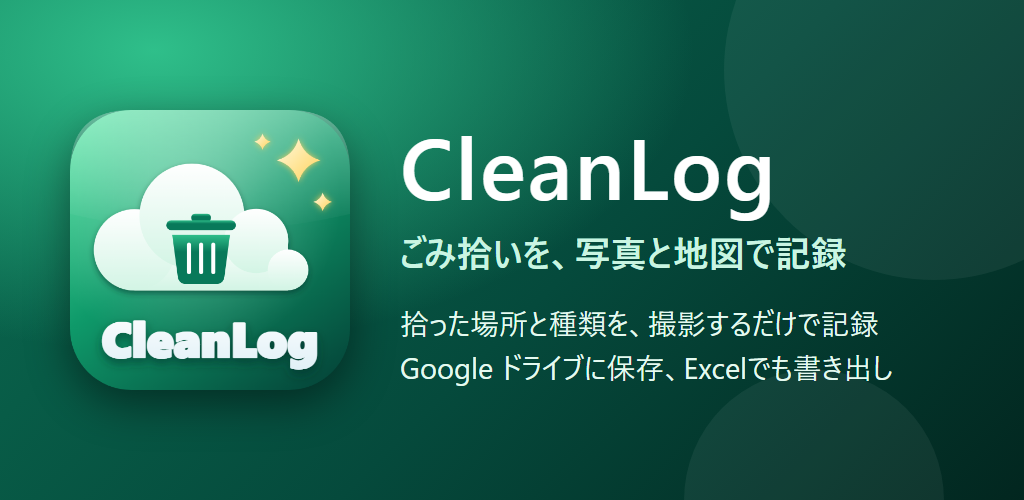
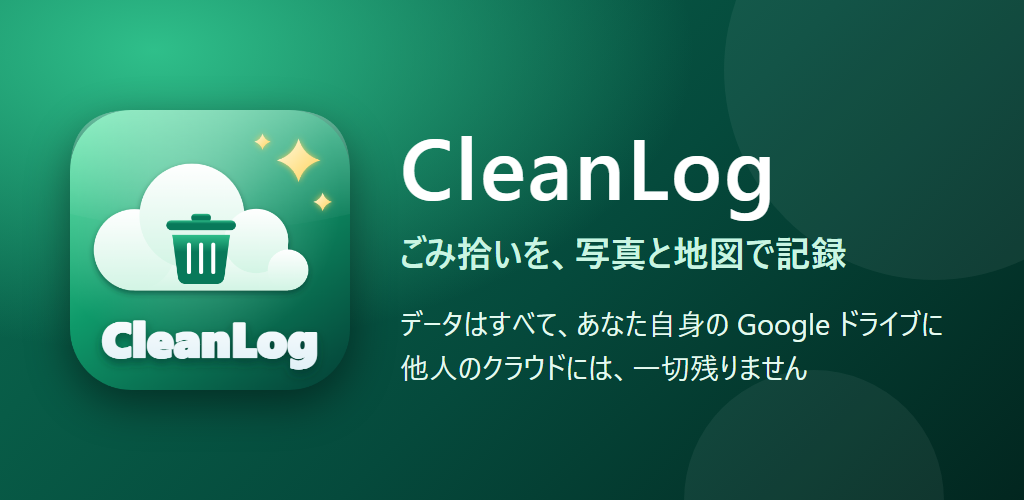
説明に「データはすべて自分の Google ドライブだけに保存される」特長を追加

Changed region(s): [[0.375, 0.6, 0.9062, 0.78]]

diff --git a/android/store/feature.html b/android/store/feature.html
@@ -13,5 +13,5 @@ p{margin:26px 0 0;font-size:29px;line-height:1.5;color:#e4faf0}
  <div class="dot" style="width:420px;height:420px;right:-120px;top:-140px"></div>
  <div class="dot" style="width:260px;height:260px;right:80px;bottom:-130px"></div>
  <img src="icon-512.png">
- <div class="t"><h1>CleanLog</h1><h2>ごみ拾いを、写真と地図で記録</h2><p>拾った場所と種類を、撮影するだけで記録<br>Google ドライブに保存、Excelでも書き出し</p></div>
+ <div class="t"><h1>CleanLog</h1><h2>ごみ拾いを、写真と地図で記録</h2><p>データはすべて、あなた自身の Google ドライブに<br>他人のクラウドには、一切残りません</p></div>
 </div>

diff --git a/index.html b/index.html
@@ -6,7 +6,7 @@
     <title>CleanLog</title>
     <meta
       name="description"
-      content="ごみ拾い記録をマップと写真で残す、スマホ向けのモバイルファーストアプリ"
+      content="ごみ拾いを、マップと写真で記録。データはすべて自分の Google ドライブに保存され、他人のクラウドには残りません"
     />
     <link rel="preconnect" href="https://fonts.googleapis.com" />
     <link rel="preconnect" href="https://fonts.gstatic.com" crossorigin />

diff --git a/android/store/listing-ja.md b/android/store/listing-ja.md
@@ -11,10 +11,17 @@ Play Console にそのまま貼り付けて使います。
 - ウェブサイト: https://cleanlog.doitmyself.net/
 
 ## 簡単な説明（80文字まで）
-ごみ拾いの記録を、写真と地図で残すアプリ。種類ごとに集計し、Google ドライブに保存できます。
+ごみ拾いを写真と地図で記録。写真もデータも、すべて自分の Google ドライブに保存。他人のクラウドには残りません。
 
 ## 詳しい説明（4000文字まで）
 CleanLog は、ごみ拾いの活動を、写真と地図でかんたんに記録するアプリです。
+
+■ 大きな特長: データは、すべてあなたの Google ドライブに
+・写真も記録も、ご自身の Google アカウントのドライブ（「CleanLog」フォルダー）に保存されます。
+・開発者や他社のサーバー・クラウドには、データを送信も保存もしません。ほかの人のクラウドに、あなたのデータが残ることはありません。
+・データはいつでも自分で開いて、コピー・バックアップ・削除ができます。アプリを消しても、ドライブのデータは残ります。
+・アプリが見られるのは、アプリ自身が作ったファイルだけです。ドライブのほかのファイルは見えません。
+・端末を買い替えても、同じ Google アカウントでログインすれば、記録を引き継げます。
 
 ■ できること
 ・その場で撮影、またはアルバムの写真から記録（写真の位置情報も自動で使えます）
